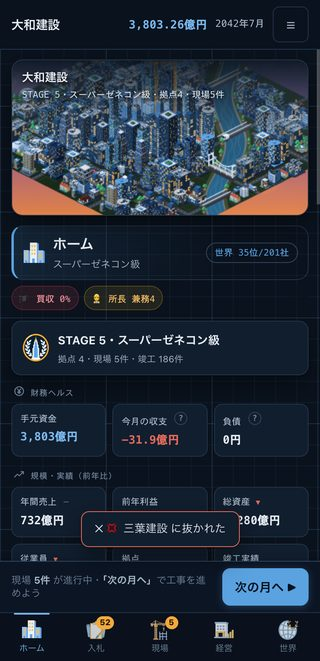
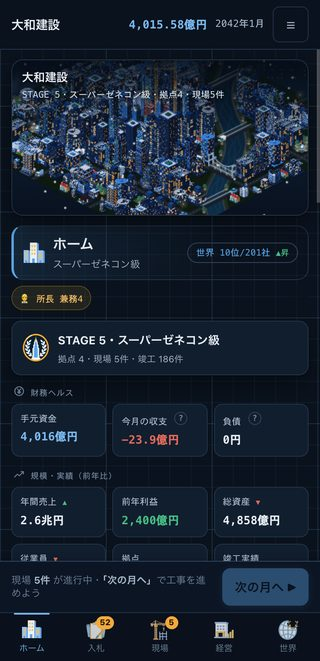
BUILD EMPIRE の紹介ページを作る
App Store のレビュー返信で「サポートページからご連絡ください」と案内する
前提なので、飛んだ先に実体が要る。困ったときに自分で解けるものは
よくある質問に置いた（セーブは消えないか／機種変更の引き継ぎ／購入の復元／
進行が止まったときに何を知らせてほしいか／広告）。

とくに「進行が止まった」の項では、こちらが再現するために必要な3つ
（機種・開いていた画面・反応しないボタン）を名指しで聞いている。
「詳しく教えてください」では返ってこないため。

本体がダークの画面なので、このページだけ常時ダークで世界観を揃えた。
一覧のカードのリンク先も App Store 直行からこのページに変えている。

画面写真は1.6の実データ（14年目・STAGE5・上場済み）から撮った。
宣伝に使うので、トーストの写り込みを消し、買収を受けていない状態にし、
前年実績が黒字の会社の姿にしてある。

Claude-Session: https://claude.ai/code/session_01HDpTcSEj9CfiM5mzZWDxGr

diff --git a/buildempire/index.html b/buildempire/index.html
@@ -1,0 +1,302 @@
+<!DOCTYPE html>
+<html lang="ja">
+<head>
+<meta charset="utf-8">
+<meta name="viewport" content="width=device-width, initial-scale=1">
+<title>BUILD EMPIRE｜町の工務店から世界一のゼネコンへ</title>
+<meta name="description" content="建設会社を一代で世界最大手へ育てる、完全ターン制の経営シミュレーション。入札で工事を取り、現場を回し、人を育て、株式を上場する。竣工した建物はホームの街に残ります。iPhone向け・基本無料。">
+<link rel="canonical" href="https://hsmty1.github.io/buildempire/">
+<meta name="theme-color" content="#0A121D">
+<link rel="icon" href="assets/icon.png">
+<link rel="apple-touch-icon" href="assets/icon.png">
+
+<meta property="og:type" content="website">
+<meta property="og:site_name" content="BUILD EMPIRE">
+<meta property="og:title" content="BUILD EMPIRE｜町の工務店から世界一のゼネコンへ">
+<meta property="og:description" content="入札で工事を取り、現場を回し、人を育て、株式を上場する。完全ターン制のゼネコン経営シミュレーション。">
+<meta property="og:url" content="https://hsmty1.github.io/buildempire/">
+<meta property="og:image" content="https://hsmty1.github.io/buildempire/assets/og.jpg">
+<meta property="og:image:width" content="1200">
+<meta property="og:image:height" content="630">
+<meta property="og:locale" content="ja_JP">
+<meta name="twitter:card" content="summary_large_image">
+<meta name="twitter:title" content="BUILD EMPIRE">
+<meta name="twitter:description" content="町の工務店から世界一のゼネコンへ。完全ターン制のゼネコン経営シミュレーション。">
+<meta name="twitter:image" content="https://hsmty1.github.io/buildempire/assets/og.jpg">
+<meta name="apple-itunes-app" content="app-id=6794272593">
+
+<script type="application/ld+json">
+{
+  "@context": "https://schema.org",
+  "@type": "MobileApplication",
+  "name": "BUILD EMPIRE",
+  "operatingSystem": "iOS 15.0以降",
+  "applicationCategory": "GameApplication",
+  "url": "https://hsmty1.github.io/buildempire/",
+  "downloadUrl": "https://apps.apple.com/jp/app/id6794272593",
+  "image": "https://hsmty1.github.io/buildempire/assets/og.jpg",
+  "description": "建設会社を一代で世界最大手へ育てる、完全ターン制の経営シミュレーション。入札・施工・経営・上場までを1ヶ月ずつ進めます。",
+  "offers": { "@type": "Offer", "price": "0", "priceCurrency": "JPY" }
+}
+</script>
+
+<style>
+/* ゲーム本体がダークの画面なので、このページも常時ダークで揃える。
+   親サイト（一覧）はライト/ダーク両対応だが、ここだけは世界観を優先する。 */
+:root{
+  --bg:#080E18; --surface:#111E2E; --surface-2:#0C1826;
+  --text:#E8EFF6; --muted:#A9BACB; --dim:#72869C;
+  --line:rgba(120,182,236,.16); --line-2:rgba(120,182,236,.28);
+  --blue:#5AA2E0; --blue-2:#7CBAF0; --amber:#F2A93C; --good:#48BE86;
+  --radius:16px; --maxw:1000px;
+}
+*{box-sizing:border-box}
+body{
+  margin:0;background:var(--bg);color:var(--text);
+  font-family:-apple-system,BlinkMacSystemFont,"Hiragino Sans","Hiragino Kaku Gothic ProN","Noto Sans JP","Helvetica Neue",Arial,sans-serif;
+  line-height:1.85;font-size:16px;-webkit-font-smoothing:antialiased;
+}
+img{max-width:100%;height:auto;display:block}
+a{color:var(--blue-2)}
+.wrap{max-width:var(--maxw);margin:0 auto;padding:0 20px}
+section{padding:44px 0}
+.sec-head{margin:0 0 22px}
+.sec-head .eyebrow{
+  display:inline-block;font-size:11px;font-weight:800;letter-spacing:.12em;
+  color:var(--blue);border:1px solid var(--line-2);border-radius:999px;padding:2px 12px;margin-bottom:10px;
+}
+h2{font-size:clamp(21px,4.6vw,28px);margin:0 0 6px;letter-spacing:.01em;line-height:1.5}
+.sec-head p{margin:0;color:var(--muted);font-size:14.5px}
+
+/* ── ヒーロー ─────────────────────────────── */
+.hero{position:relative;overflow:hidden;border-bottom:1px solid var(--line)}
+.hero-bg{position:absolute;inset:0;background:url(assets/hero.jpg) center 38% / cover no-repeat;opacity:.55}
+.hero-bg:after{content:"";position:absolute;inset:0;
+  background:linear-gradient(180deg,rgba(8,14,24,.55) 0%,rgba(8,14,24,.82) 55%,var(--bg) 100%)}
+.hero-in{position:relative;padding:62px 0 48px;text-align:center}
+.hero img.icon{width:108px;height:108px;border-radius:24px;margin:0 auto 20px;
+  box-shadow:0 10px 40px rgba(0,0,0,.55)}
+.hero h1{font-size:clamp(34px,8.4vw,60px);margin:0 0 8px;font-weight:900;letter-spacing:.04em;line-height:1.15}
+.hero .catch{margin:0 0 6px;font-size:clamp(15px,3.6vw,19px);font-weight:700;color:var(--blue-2)}
+.hero .sub{margin:0 auto;max-width:34em;color:var(--muted);font-size:14.5px;text-wrap:balance}
+.badge{display:inline-block;margin-top:24px}
+.badge img{height:54px;width:auto;display:block}
+.hero .note{margin:12px 0 0;font-size:12.5px;color:var(--dim)}
+
+/* ── 遊び方 ───────────────────────────────── */
+.steps{display:grid;gap:12px;grid-template-columns:1fr}
+@media(min-width:720px){.steps{grid-template-columns:repeat(4,1fr)}}
+.step{background:var(--surface);border:1px solid var(--line);border-radius:14px;padding:16px 18px}
+.step .n{font-family:ui-monospace,"SF Mono",Menlo,monospace;font-size:12px;font-weight:800;color:var(--amber);letter-spacing:.1em}
+.step h3{margin:4px 0 4px;font-size:16px}
+.step p{margin:0;font-size:13.5px;color:var(--muted);line-height:1.7}
+
+/* ── できること ────────────────────────────── */
+.feats{display:grid;gap:14px;grid-template-columns:1fr}
+@media(min-width:720px){.feats{grid-template-columns:repeat(2,1fr)}}
+.feat{background:var(--surface);border:1px solid var(--line);border-radius:14px;padding:18px 20px;
+  border-left:3px solid var(--blue)}
+.feat h3{margin:0 0 5px;font-size:16.5px}
+.feat p{margin:0;font-size:13.5px;color:var(--muted);line-height:1.75}
+
+/* ── 画面 ─────────────────────────────────── */
+.shots{display:grid;grid-template-columns:repeat(2,1fr);gap:14px}
+@media(min-width:720px){.shots{grid-template-columns:repeat(4,1fr)}}
+.shot figure{margin:0}
+.shot img{width:100%;border-radius:12px;border:1px solid var(--line)}
+.shot figcaption{margin-top:7px;font-size:12px;color:var(--dim);text-align:center}
+
+/* ── 料金 ─────────────────────────────────── */
+.plans{display:grid;gap:14px;grid-template-columns:1fr}
+@media(min-width:720px){.plans{grid-template-columns:repeat(2,1fr)}}
+.plan{background:var(--surface);border:1px solid var(--line);border-radius:16px;padding:20px 22px}
+.plan.pro{border-color:var(--line-2);
+  background:radial-gradient(120% 90% at 50% 0%,rgba(242,169,60,.10),transparent 70%),var(--surface)}
+.plan h3{margin:0 0 2px;font-size:18px}
+.plan .price{font-family:ui-monospace,"SF Mono",Menlo,monospace;font-size:13px;color:var(--amber);margin:0 0 10px}
+.plan ul{margin:0;padding-left:1.15em}
+.plan li{font-size:13.5px;color:var(--muted);margin-bottom:5px;line-height:1.7}
+.plan li b{color:var(--text)}
+
+/* ── よくある質問 ──────────────────────────── */
+details{background:var(--surface-2);border:1px solid var(--line);border-radius:12px;
+  padding:14px 18px;margin-bottom:10px}
+summary{cursor:pointer;font-weight:700;font-size:15px;list-style:none}
+summary::-webkit-details-marker{display:none}
+summary:before{content:"＋ ";color:var(--blue);font-weight:800}
+details[open] summary:before{content:"− "}
+details p{margin:10px 0 0;font-size:13.5px;color:var(--muted);line-height:1.8}
+details p:last-child{margin-bottom:2px}
+
+/* ── 締め ─────────────────────────────────── */
+.cta{text-align:center;border-top:1px solid var(--line);
+  background:radial-gradient(90% 120% at 50% 0%,rgba(90,162,224,.10),transparent 70%)}
+.cta h2{margin-bottom:16px}
+footer{padding:32px 0 52px;text-align:center;color:var(--dim);font-size:13px;border-top:1px solid var(--line)}
+footer a{color:var(--muted)}
+footer .back{display:inline-block;margin-bottom:10px}
+</style>
+</head>
+<body>
+
+<header class="hero">
+  <div class="hero-bg"></div>
+  <div class="hero-in wrap">
+    <img class="icon" src="assets/icon.png" alt="" width="108" height="108">
+    <h1>BUILD EMPIRE</h1>
+    <p class="catch">町の工務店から世界一のゼネコンへ</p>
+    <p class="sub">入札で工事を取り、現場を回し、人を育て、株式を上場する。<br>
+      完全ターン制のゼネコン経営シミュレーションです。</p>
+    <a class="badge" href="https://apps.apple.com/jp/app/id6794272593">
+      <img src="assets/appstore-badge-ja.svg" alt="App Store でダウンロード" height="54">
+    </a>
+    <p class="note">iPhone・iPad対応／iOS 15.0以降／基本プレイ無料</p>
+  </div>
+</header>
+
+<main>
+
+<section class="wrap">
+  <div class="sec-head">
+    <span class="eyebrow">あそびかた</span>
+    <h2>ひと月ずつ、会社を大きくしていく</h2>
+    <p>リアルタイムで進むものは何もありません。「次の月へ」を押したときだけ時間が動きます。</p>
+  </div>
+  <div class="steps">
+    <div class="step"><div class="n">01</div><h3>入札する</h3>
+      <p>公告された工事に価格を入れて応札。安くすれば取れますが、利益は薄くなります。</p></div>
+    <div class="step"><div class="n">02</div><h3>現場を動かす</h3>
+      <p>月を進めると工事が進み、出来高に応じて翌月に代金が入ります。所長と人員の配り方が効きます。</p></div>
+    <div class="step"><div class="n">03</div><h3>会社を強くする</h3>
+      <p>部署を育て、人を採り、給与と福利厚生を決める。借入・投資・M&amp;A・海外進出も。</p></div>
+    <div class="step"><div class="n">04</div><h3>頂点を目指す</h3>
+      <p>実績を積んでステージが上がると、扱える工事の格が上がります。目標は世界ランキング1位。</p></div>
+  </div>
+</section>
+
+<section class="wrap">
+  <div class="sec-head">
+    <span class="eyebrow">とくちょう</span>
+    <h2>建てたものが、街に残る</h2>
+  </div>
+  <div class="feats">
+    <div class="feat"><h3>竣工した建物が並ぶ、あなたの街</h3>
+      <p>完成した物件はホーム画面の街にそのままの姿で建ちます。戸建てから超高層ビル、橋、トンネル、空港まで。夜になれば明かりが灯ります。</p></div>
+    <div class="feat"><h3>工事中の姿も、工程どおりに変わる</h3>
+      <p>更地から山留・基礎、躯体、外装、そして竣工へ。橋やトンネル、洋上風力はそれぞれの建ち方をします。クレーンは現場の上で動きます。</p></div>
+    <div class="feat"><h3>入札は、値段だけでは決まらない</h3>
+      <p>技術力・施工実績・経営事項審査・施主との関係が効きます。総合評価方式の工事では、安いだけの札は通りません。</p></div>
+    <div class="feat"><h3>人を大事にすると、会社が回る</h3>
+      <p>週休2日（4週8閉所）にすると原価と工期は増えますが、士気と定着率が上がり、残業の積み重なりによる是正勧告を避けられます。</p></div>
+    <div class="feat"><h3>数字が、ちゃんと合う</h3>
+      <p>出来高払い・売掛・仕掛工事・法定福利費・決算・配当まで。毎月の収支報告書と年度の決算書で、会社の状態を確かめられます。</p></div>
+    <div class="feat"><h3>すきま時間で進む</h3>
+      <p>完全ターン制なので、置いていかれることがありません。1ヶ月ぶんだけ進めて閉じる、という遊び方ができます。</p></div>
+  </div>
+</section>
+
+<section class="wrap">
+  <div class="sec-head">
+    <span class="eyebrow">がめん</span>
+    <h2>画面を見てみる</h2>
+  </div>
+  <div class="shots">
+    <div class="shot"><figure><img src="assets/shot-1.jpg" alt="ホーム画面。竣工した建物が並ぶ街と、会社の数字" width="400" height="826" loading="lazy"><figcaption>ホーム（街と会社の数字）</figcaption></figure></div>
+    <div class="shot"><figure><img src="assets/shot-2.jpg" alt="入札室。施工・設計・特命から選んで応札" width="400" height="826" loading="lazy"><figcaption>入札室</figcaption></figure></div>
+    <div class="shot"><figure><img src="assets/shot-3.jpg" alt="現場画面。運営方針と進行中の現場" width="400" height="826" loading="lazy"><figcaption>現場</figcaption></figure></div>
+    <div class="shot"><figure><img src="assets/shot-4.jpg" alt="経営画面。人事・給与・銀行・M&amp;Aなどのメニュー" width="400" height="826" loading="lazy"><figcaption>経営</figcaption></figure></div>
+    <div class="shot"><figure><img src="assets/shot-5.jpg" alt="世界ランキング。201社の中での順位" width="400" height="826" loading="lazy"><figcaption>世界ランキング</figcaption></figure></div>
+    <div class="shot"><figure><img src="assets/shot-6.jpg" alt="福利厚生。制度ごとに単価と対象人数を決める" width="400" height="826" loading="lazy"><figcaption>給与・福利厚生</figcaption></figure></div>
+    <div class="shot"><figure><img src="assets/shot-7.jpg" alt="上場・増資。自社株のローソク足チャート" width="400" height="826" loading="lazy"><figcaption>上場・増資</figcaption></figure></div>
+  </div>
+</section>
+
+<section class="wrap">
+  <div class="sec-head">
+    <span class="eyebrow">りょうきん</span>
+    <h2>基本無料で、最後まで遊べます</h2>
+    <p>月額はありません。買い切りのプレミアムは、一度のお支払いで以後ずっとお使いいただけます。</p>
+  </div>
+  <div class="plans">
+    <div class="plan">
+      <h3>無料</h3>
+      <p class="price">0円（バナー広告あり）</p>
+      <ul>
+        <li><b>世界一まで到達できます。</b>遊べる範囲に制限はありません</li>
+        <li>入札・施工・人事・部署育成・技術開発・投資開発・M&amp;A・海外進出</li>
+        <li>福利厚生はレベル0〜5で設定します</li>
+      </ul>
+    </div>
+    <div class="plan pro">
+      <h3>プレミアム（やり込みモード）</h3>
+      <p class="price">買い切り／広告なし</p>
+      <ul>
+        <li><b>協力会社</b>：職種ごとの取引先を束ね、専属会・単価交渉・支払条件・職長会で原価と工期を動かす</li>
+        <li><b>現場所長</b>：新米から中堅、ベテランへ。副所長として大型現場で鍛え、中途採用でも集める</li>
+        <li><b>給与と福利厚生</b>：等級別の月給・賞与月数に加え、9つの制度ごとに単価と対象人数を決める</li>
+        <li><b>株式と上場</b>：取引先の株を持ち、会社を上場させて大型の資金調達を行う</li>
+      </ul>
+    </div>
+  </div>
+</section>
+
+<section class="wrap">
+  <div class="sec-head">
+    <span class="eyebrow">こまったとき</span>
+    <h2>よくある質問</h2>
+  </div>
+
+  <details>
+    <summary>進行中のデータは消えませんか？</summary>
+    <p>セーブはアプリを閉じた瞬間ではなく、<b>1ヶ月進めるたびに書き込んで</b>います。書き込みは端末のファイルと端末内の保存領域の二重で行い、さらに1世代前の控えを残しています。保存に失敗したときはアプリが画面でお知らせします。</p>
+    <p>それでも進行が失われた場合は、下の「サポート・お問い合わせ」からご連絡ください。</p>
+  </details>
+
+  <details>
+    <summary>機種変更したら引き継げますか？</summary>
+    <p>同じApple IDでiCloudにサインインしていれば、<b>セーブはiCloud経由で同期されます</b>。設定画面に「iCloud同期：有効」と出ていればつながっています。新しい端末では起動直後は空に見えることがあり、数秒待つとセーブが降りてきます。</p>
+  </details>
+
+  <details>
+    <summary>プレミアムは買い直しになりますか？</summary>
+    <p>なりません。同じApple IDであれば、メニューの「ストア」から<b>「購入を復元」</b>を押すと元に戻ります。月額課金ではないので、更新料もかかりません。</p>
+  </details>
+
+  <details>
+    <summary>進行が止まってしまいました</summary>
+    <p>まずアプリを一度終了して開き直してください。それでも直らないときは、<b>お使いの機種・そのとき開いていた画面・押しても反応しないボタン</b>を添えてご連絡いただけると、こちらで同じ状態を作って調べられます。</p>
+    <p>画面の縦が短い端末で一覧が見えにくくなる不具合は、バージョン1.6で直しています。</p>
+  </details>
+
+  <details>
+    <summary>広告は消せますか？</summary>
+    <p>買い切りのプレミアムをご購入いただくと、バナー広告が消えます。無料のままでも、広告が遊びを止めることはありません（動画を見ないと進めない、といった作りにはしていません）。</p>
+  </details>
+
+  <details>
+    <summary>要望を送りたいのですが</summary>
+    <p>ぜひお願いします。これまでのアップデートは、いただいたご意見から作ったものがほとんどです。App Storeのレビューか、下のお問い合わせからお送りください。</p>
+  </details>
+</section>
+
+<section class="cta">
+  <div class="wrap">
+    <h2>あなたの手で、建設帝国を。</h2>
+    <a class="badge" href="https://apps.apple.com/jp/app/id6794272593">
+      <img src="assets/appstore-badge-ja.svg" alt="App Store でダウンロード" height="54">
+    </a>
+  </div>
+</section>
+
+</main>
+
+<footer>
+  <div class="wrap">
+    <p class="back"><a href="../">← K.H.App のアプリ一覧へ</a></p>
+    <p><a href="https://sites.google.com/view/khappprivacy-policy/%E3%83%9B%E3%83%BC%E3%83%A0">プライバシーポリシー・サポート・お問い合わせ</a></p>
+    <p>© K.H.App</p>
+  </div>
+</footer>
+
+</body>
+</html>

diff --git a/index.html b/index.html
@@ -103,7 +103,7 @@ footer a{color:var(--muted)}
 <main class="wrap">
   <div class="grid">
 
-    <a class="card hero" href="https://apps.apple.com/jp/app/id6794272593">
+    <a class="card hero" href="buildempire/">
       <div class="hero-head">
         <img src="assets/icons/build-empire.jpg" alt="" width="88" height="88">
         <div>
@@ -119,7 +119,7 @@ footer a{color:var(--muted)}
         <img src="assets/shots/be-site.jpg" alt="現場の運営方針を決める画面" width="320" height="661" loading="lazy">
         <img src="assets/shots/be-rank.jpg" alt="世界ランキングの画面" width="320" height="661" loading="lazy">
       </div>
-      <span class="more">App Store で見る →</span>
+      <span class="more">紹介ページを見る →</span>
     </a>
 
     <a class="card featured" href="pairtrip/">
